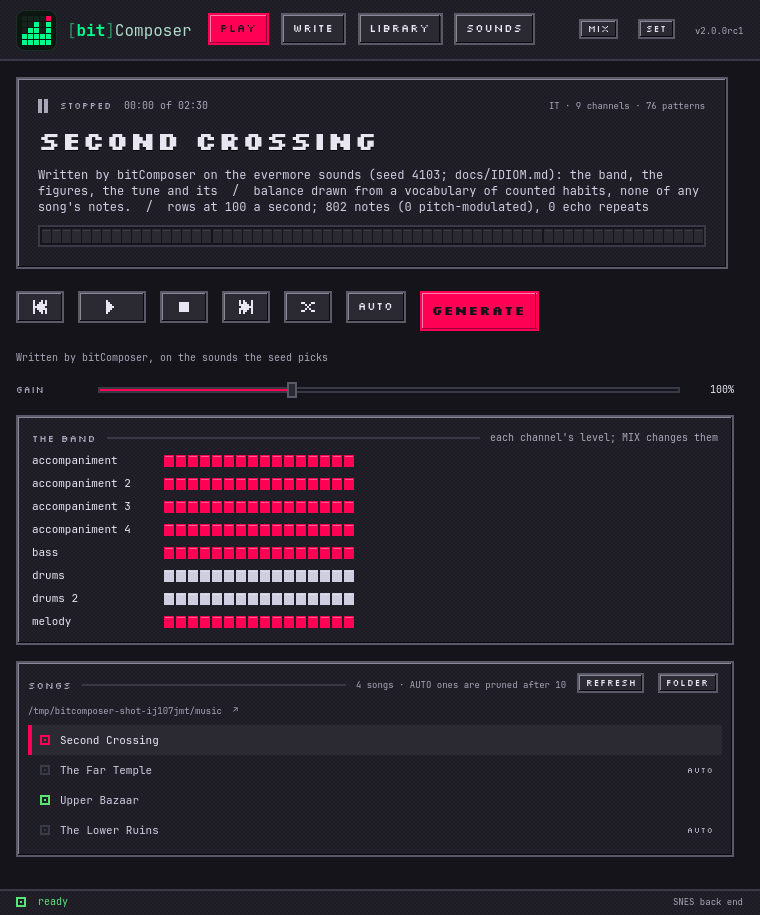
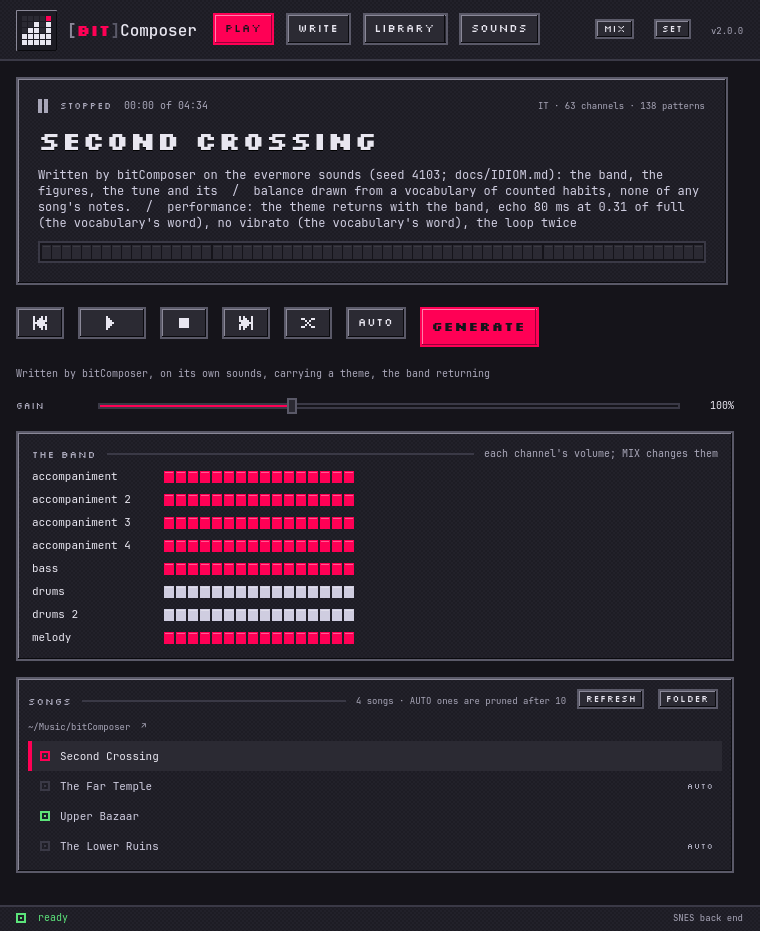
Release 2.0.0: version, changelog, roadmap, vision, the README's picture
The version is 2.0.0 and the changelog's Unreleased section is 2.0.0,
dated, with its mark over the three entries since rc3. The roadmap's
writer item records the attack class in 2.0.0 and the kit's pieces next
(branch kit-pieces); the vision's Now and Next are 2.0's.

The listening page's five written songs were written again with their
commands: byte for byte the rc3 files, the same audio, their entries'
version 2.0.0. A written song's message names its seed and sounds but
not the version that wrote it, which only Classic's records; the README
and the checklist said every song did and now say so of Classic's.

The README's picture is retaken at 2.0.0 with the new lockup, at the
player's own default screen: the checklist's 800x1440 at 2x put the
2.0 window at 400 logical pixels, where its header buttons overlap. The
checklist also gains the copy check before a changed vocabulary ships.

Changed region(s): [[0.0, 0.0, 0.9684, 0.918], [0.9079, 0.8262, 0.9382, 0.8568]]

diff --git a/bitcomposer/__init__.py b/bitcomposer/__init__.py
@@ -1,6 +1,6 @@
 """bitcomposer — Procedural 16-bit chiptune music generator."""
 
-__version__ = "2.0.0rc3"
+__version__ = "2.0.0"
 
 # The registry first, then the packs that register their voices into it.
 from . import samples, packs  # noqa: E402,F401

diff --git a/CHANGELOG.md b/CHANGELOG.md
@@ -1,10 +1,10 @@
 # Changelog
 
-## Unreleased
+## 2.0.0 — 2026-11-01
 
 2.0: the writer is the generator. GENERATE writes whole songs from a vocabulary of counted habits (the statistics of how a soundtrack is put together, fitted on its songs' readings; the shipped one was learned from Final Fantasy VI's 67 songs, as far as the writing has gone, and is bitComposer's own in the window) on the built-in SNES sound sets or an imported game's own samples, and importing a game now gives you its vocabulary beside its sounds and grows one over everything you have imported. The 1.x generator stays as Classic. The window is an application of four screens for it, in the SNES era's pixels. What follows is the 1.2 line's record, kept whole, since 2.0 is built on it.
 
-- The listening page in the player's look (`docs/index.html`): the window's slate panels, bevels, dither and pixel face, its lockup, and a now-playing panel with the song's position as blocks, the transport and a stepped volume. The songs come in two sections: five from the writer, seeds 1 to 5 on the bit set, then Classic's six, one per sound, which still play note for note as 1.0.0 wrote them. Each song shows the command that writes it. The page had said its songs were two seeds in three palettes, regenerated with each release; neither was so.
+- 2.0.0 (the three entries that follow): the listening page in the player's look (`docs/index.html`): the window's slate panels, bevels, dither and pixel face, its lockup, and a now-playing panel with the song's position as blocks, the transport and a stepped volume. The songs come in two sections: five from the writer, seeds 1 to 5 on the bit set, then Classic's six, one per sound, which still play note for note as 1.0.0 wrote them. Each song shows the command that writes it. The page had said its songs were two seeds in three palettes, regenerated with each release; neither was so.
 - The README opens with 2.0's writer, its sound set and the vocabulary an import gives a game; Classic's opening, sounds, knobs and workings move to a section of their own, its examples with the `--classic` they need since 2.0 (without it the command line writes from the vocabulary and reads none of Classic's options). The player's names are 2.0's: GENERATE and WRITE AND PLAY, WRITER: CLASSIC (1.X) and WRITTEN FROM on WRITE, LIBRARY's SOUNDS, USE ITS SOUNDS and WRITE FROM IT. The Windows section says when the build runs and what Smart App Control does to an unsigned program.
 - A part's attack class as a counted word (`attacks`, round 73 in `docs/idiom/phase-4-writing.md`): whether the game plays the part's line on a struck sample, one that decays after its attack, or a sustaining one. FFVI's tunes sustain in 63 of 66 songs; after the bit set's range tops were placed by ear, its keys had taken six of ten default tunes by range and speed alone, and a tune that fades between its notes reads weak at any level. A built-in set's pool rule now lets a voice of the other class stand down where one of the drawn class fits (`packs.profile` carries `struck`); an imported pack's own samples are untouched. Pack4 refit (98 tables), the shipped vocabulary regenerated.
 - 2.0rc3 (the seven entries that follow): the brand, cut from the window's own material (2026-10-30, the owner's pick from three rounds of directions): the bit tile is now a frame drawn like one of the player's bevelled buttons (bevel light top-left, bevel dark bottom-right, the panel face) holding the family's 5x5 grid in the window's slate, unlit cells raised, lit cells the text colour, the pink bit top-right as ever; and the name is chrome brackets round BIT in Silkscreen, the player's pixel face, in the pink, then Composer in JetBrains Mono. The icon (`player/icons/bitcomposer.svg`, which the Windows build renders to its .ico and the Linux menu entry copies), the window's header (`Main.qml`'s Lockup) and the README logos (`tools/make_logo.py`, now with the pixel face's outlines and a drop under the brackets on the dark logo) all changed together. The green-cast tile and mint name had clashed with the slate-and-pink chrome.

diff --git a/CONTRIBUTING.md b/CONTRIBUTING.md
@@ -244,17 +244,23 @@ it from there and the publish workflow refuses a tag that does not match it.
    first (Releasing the emulator, above) and raise the `import` extra's
    floor in `pyproject.toml` to it; a test fails until the two agree, and
    UPDATE then brings the new emulator with the release.
+   If the shipped vocabulary changed since the last release, run the copy
+   check on a machine that holds the games' reference phrases
+   (`tools/copycheck.py`; the reference set is kept outside the
+   repository): `python3 tools/copycheck.py --seeds 1-200 --carry-theme --band-returns`
+   must find no copy.
 4. The listening page (`docs/index.html`, which GitHub Pages serves from
    main's `docs`) plays the songs in `docs/tracks/`, listed in
    `tracks.json` in two sections: the writer's (`"generator": "writer"`,
    seeds 1 to 5 on the bit set) and Classic's (`"generator": "classic"`,
    one per sound). When a generator's sound changed, write its section
-   again after step 2, so the songs carry the release's version: each
-   entry's `command` writes it, with `-o` and `-v` added, e.g.
+   again after step 2 (a Classic song's message names the version that
+   wrote it; a written song's does not): each entry's `command` writes
+   it, with `-o` and `-v` added, e.g.
    `python3 -m bitcomposer.cli -s 1 -o "docs/tracks/The Starlit Arcade.it" -v`
    or `python3 -m bitcomposer.cli --classic --sound megamanx -s 24 -o "docs/tracks/Grotto Charge.it" -v`
    (without `--classic` a command writes a written song). Bring the entry
-   up to date from the `-v` output (key, tempo, form, length) and its
+   up to date from the `-v` output (key, tempo, form, length) and set its
    version. `-v` names a written song's parts, not their voices; the voices
    are the plan's (`written.compose_written(seed=1)["plan"].log`, each
    part's "voice" line). A changed title renames the file.
@@ -263,7 +269,7 @@ it from there and the publish workflow refuses a tag that does not match it.
    demo songs out of your Music folder and still shows `~/Music/bitComposer`:
 
    ```bash
-   HOME=$(mktemp -d) sh -c 'python3 -m bitcomposer.player --screenshot docs/images/player.png --screen 800x1440 --scale 2 --music-dir "$HOME/Music/bitComposer"'
+   HOME=$(mktemp -d) sh -c 'python3 -m bitcomposer.player --screenshot docs/images/player.png --music-dir "$HOME/Music/bitComposer"'
    ```
 5. Open a pull request from `dev` into `main`: CI (tests on every Python)
    and the Windows build run on it. Merge when both are green. There is

diff --git a/VISION.md b/VISION.md
@@ -47,14 +47,16 @@ relationships working together.
 
 ## Where it stands
 
-- **Now:** the generator, with seven sounds (four of them style packs
-  measured from game soundtracks) and packs as data files; the player, with
-  KEEP; the SNES emulator, with its sound CPU passing all 254,000
-  SingleStepTests cases and its sound chip checked against a reference
-  player, by measurement and by ear; SPC to IT.
-- **Next:** packs measured from a soundtrack by the importer, and the
-  player's PACKS panel (`docs/SPC-IMPORT.md`); the Sega Genesis, through VGM
-  register logs.
+- **Now:** the writer, which writes every song from a vocabulary counted
+  from a soundtrack's readings (the one that ships, from Final Fantasy VI's
+  67 songs), on bitComposer's own sound set or a game's own samples; the
+  importer, which reads a game's SPC set into a pack of its samples and,
+  at 40 songs, a vocabulary of its own; Classic, the 1.x generator, with
+  its seven sounds; the player, with KEEP; the SNES emulator, with its
+  sound CPU passing all 254,000 SingleStepTests cases and its sound chip
+  checked against a reference player, by measurement and by ear; SPC to IT.
+- **Next:** vocabularies fitted on more games; the Sega Genesis, through
+  VGM register logs.
 - **Later:** the keep-and-refine loop.
 
 *Endless music. Keep what moves you.*

diff --git a/docs/ROADMAP.md b/docs/ROADMAP.md
@@ -400,8 +400,9 @@ and the hit-or-miss part. Two steps, in order.
   the housekeeping and the measurements for phase 6 in 1.2.0rc4; phase 6,
   the writer as the generator, its engine in 2.0.0rc1, its window, its
   fitted voices and its own sound set in 2.0.0rc2, the writer's sustain
-  and the default player's sound in 2.0.0rc3, the bit set's voices by
-  attack class next: `docs/idiom/phase-6-generator.md`).** The idiom's plan took
+  and the default player's sound in 2.0.0rc3, the parts' attack class in
+  2.0.0, released 2026-11-01; the kit's pieces next, on branch
+  `kit-pieces`: `docs/idiom/phase-6-generator.md`).** The idiom's plan took
   this over from the translator's stages 3 and 4 on 2026-10-20: the
   readers scored on ground truth (phase 1), one score of voices through
   the SNES back end (phase 2), the vocabulary as tables read from the

diff --git a/README.md b/README.md
@@ -35,7 +35,7 @@ seven sounds, the chip and Genesis palettes among them.
 
 **[Listen in your browser](https://catdogbark.github.io/bitComposer/)** — the actual modules, played live by libopenmpt in WebAssembly: five songs from the writer, seeds 1 to 5, and one each from six of Classic's sounds.
 
-**Reproducible, not frozen.** The same seed on the same version gives the same song, byte for byte. A new version may change what a seed draws, and the song message records the version that wrote the file.
+**Reproducible, not frozen.** The same seed on the same version gives the same song, byte for byte. A new version may change what a seed draws; a Classic song's message records the version that wrote it.
 
 ## Install
 
